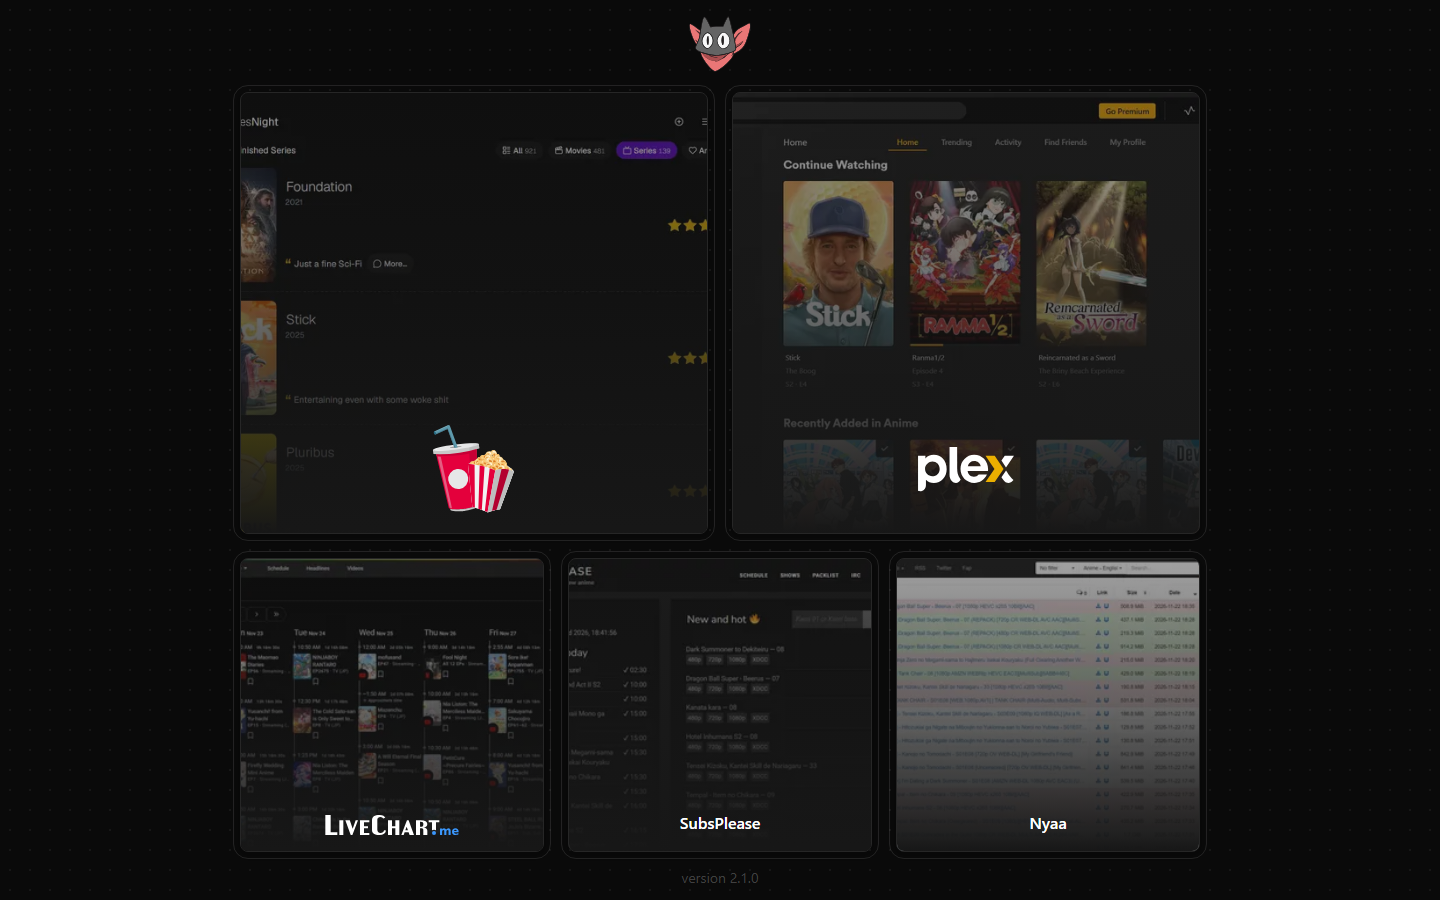
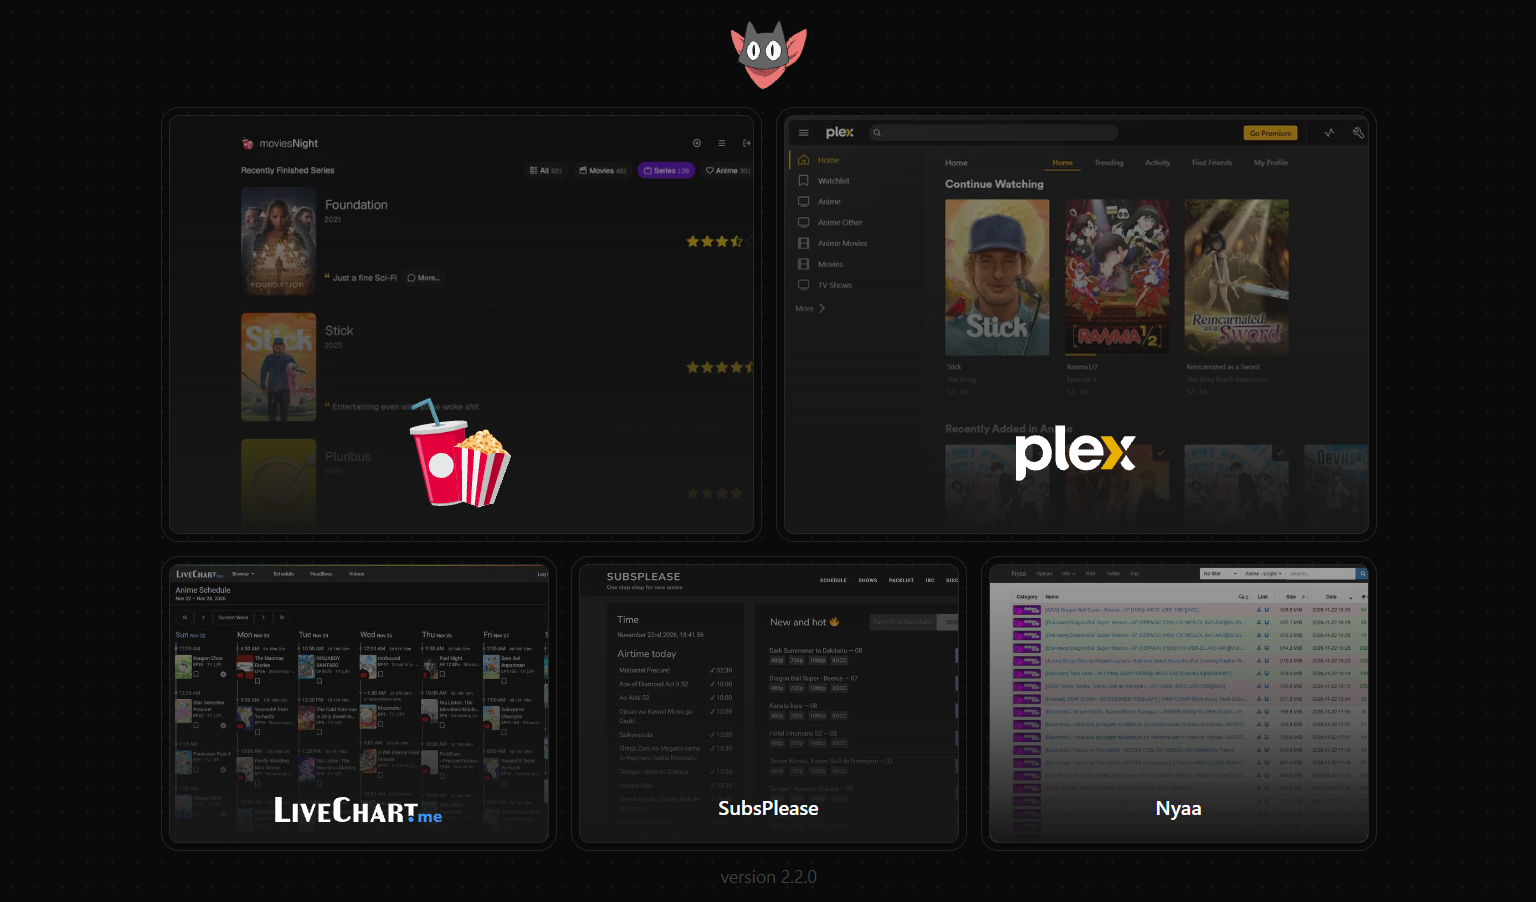
Updated Plex link and small layout change

diff --git a/README.md b/README.md
@@ -4,14 +4,12 @@ A personal start page for my home network. It's a small static site, served on t
 
 ![Homecloud Dashboard screenshot](docs/screenshot.png)
 
-> **Note:** This is a personal project made for my own local network. Some links point to private LAN addresses (for example `http://192.168.1.139:32400/` for Plex), so they won't work outside that network.
-
 ## Links on the dashboard
 
 | Tile         | Destination                                   | Type                |
 | ------------ | --------------------------------------------- | ------------------- |
 | movieNight   | `https://movies.juliuszlioba.com/`            | Personal web app    |
-| Plex         | `http://192.168.1.139:32400/`                 | Local media server  |
+| Plex         | `https://app.plex.tv/`                        | Media server        |
 | LiveChart.me | `https://www.livechart.me/schedule`           | Anime schedule      |
 | SubsPlease   | `https://subsplease.org/`                     | Release tracker     |
 | Nyaa         | `https://nyaa.si/?f=0&c=1_2&q=`               | Release index       |
